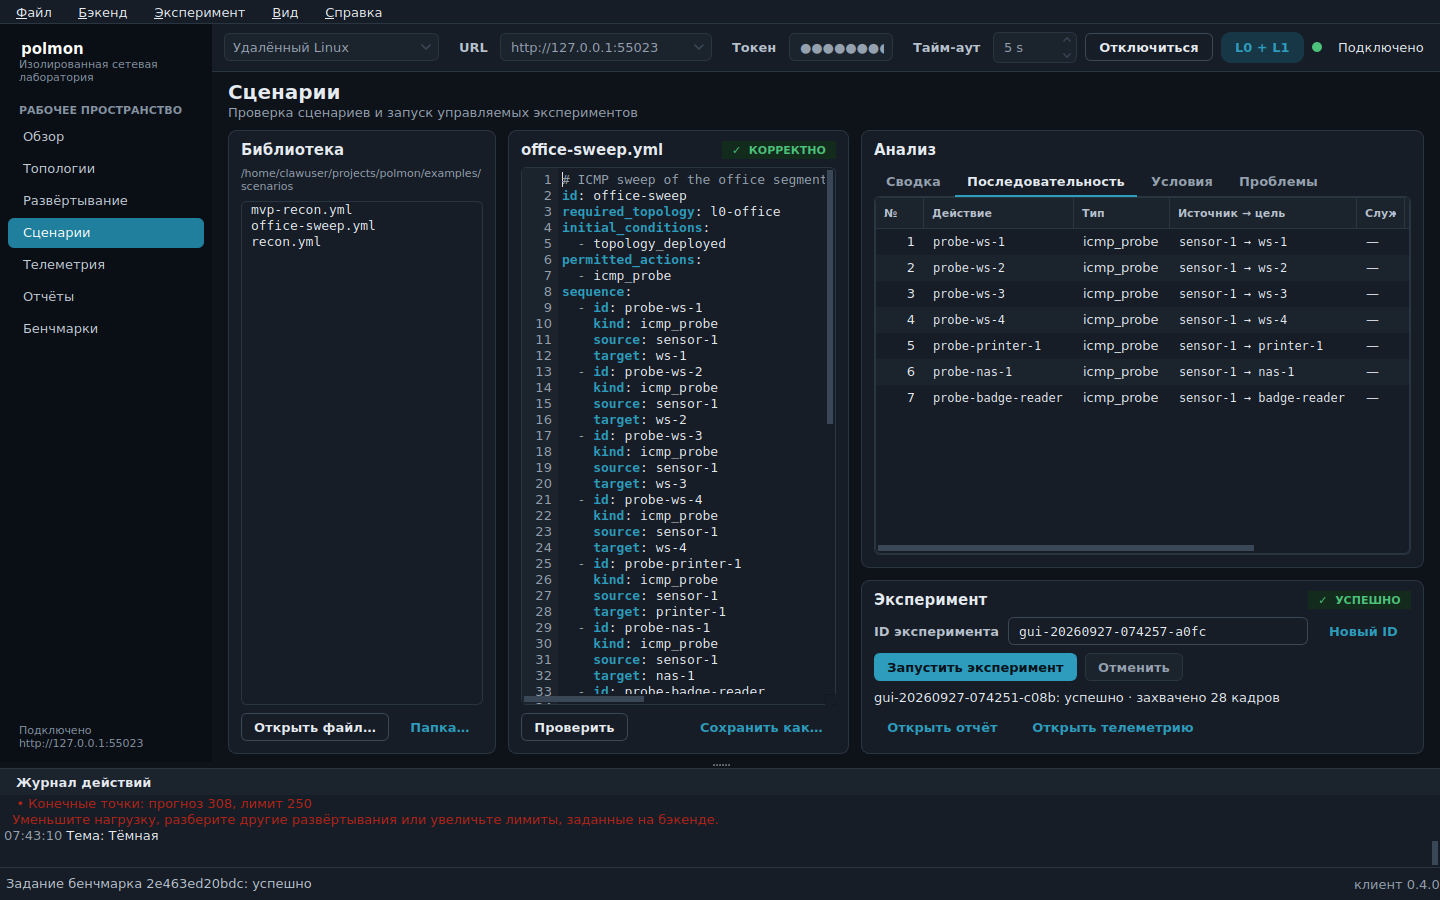
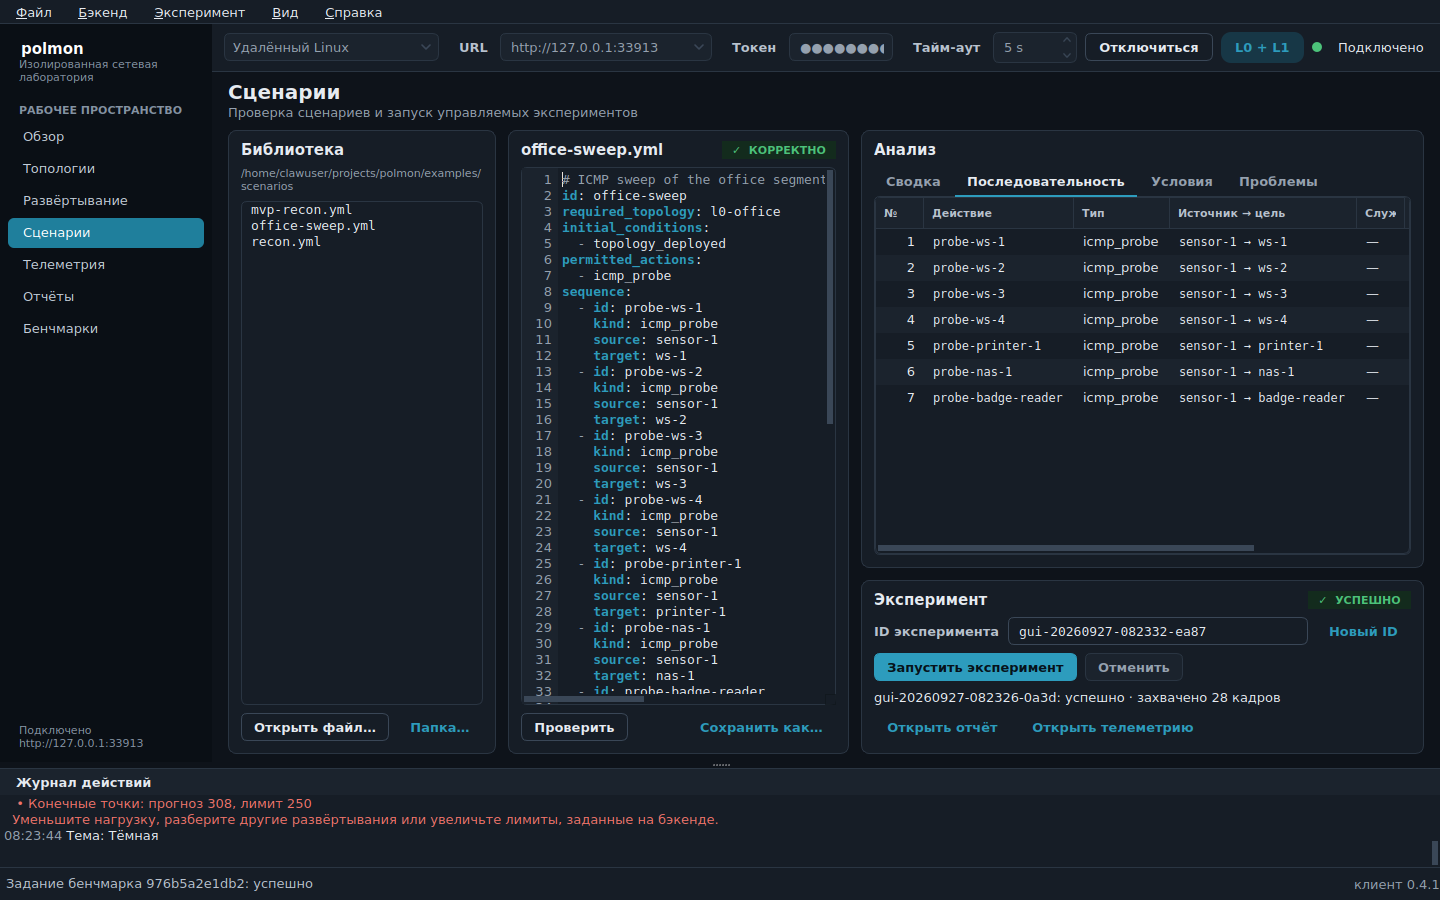
release: prepare v0.4.1

diff --git a/src/polmon/version.py b/src/polmon/version.py
@@ -1,3 +1,3 @@
 """Single source of truth for the application version."""
 
-__version__ = "0.4.0"
+__version__ = "0.4.1"

diff --git a/docs/ui/SCREENSHOTS.md b/docs/ui/SCREENSHOTS.md
@@ -5,10 +5,10 @@ a real `polmon-backend` process with an API token, the unmodified main window, t
 `l0-office` example topology and the `office-sweep` scenario. CI regenerates the same
 set as the `ui-screenshots` artifact.
 
-- Generated: 2026-09-27 05:43 UTC
-- polmon 0.4.0, Qt 6.11.2, PySide6 6.11.2
+- Generated: 2026-09-27 06:23 UTC
+- polmon 0.4.1, Qt 6.11.2, PySide6 6.11.2
 - Platform: `offscreen` on Linux 6.8.0-138-generic, window 1440×900
-- Experiment: `gui-20260927-074251-c08b`
+- Experiment: `gui-20260927-082326-0a3d`
 - UI language: `ru`
 
 ## local-backend

diff --git a/CHANGELOG.md b/CHANGELOG.md
@@ -4,6 +4,8 @@ All notable changes are documented here. Versions follow Semantic Versioning.
 
 ## [Unreleased]
 
+## [0.4.1] - 2026-09-27
+
 ### Changed
 
 - The activity log follows a language or theme switch: earlier lines are re-rendered in the
